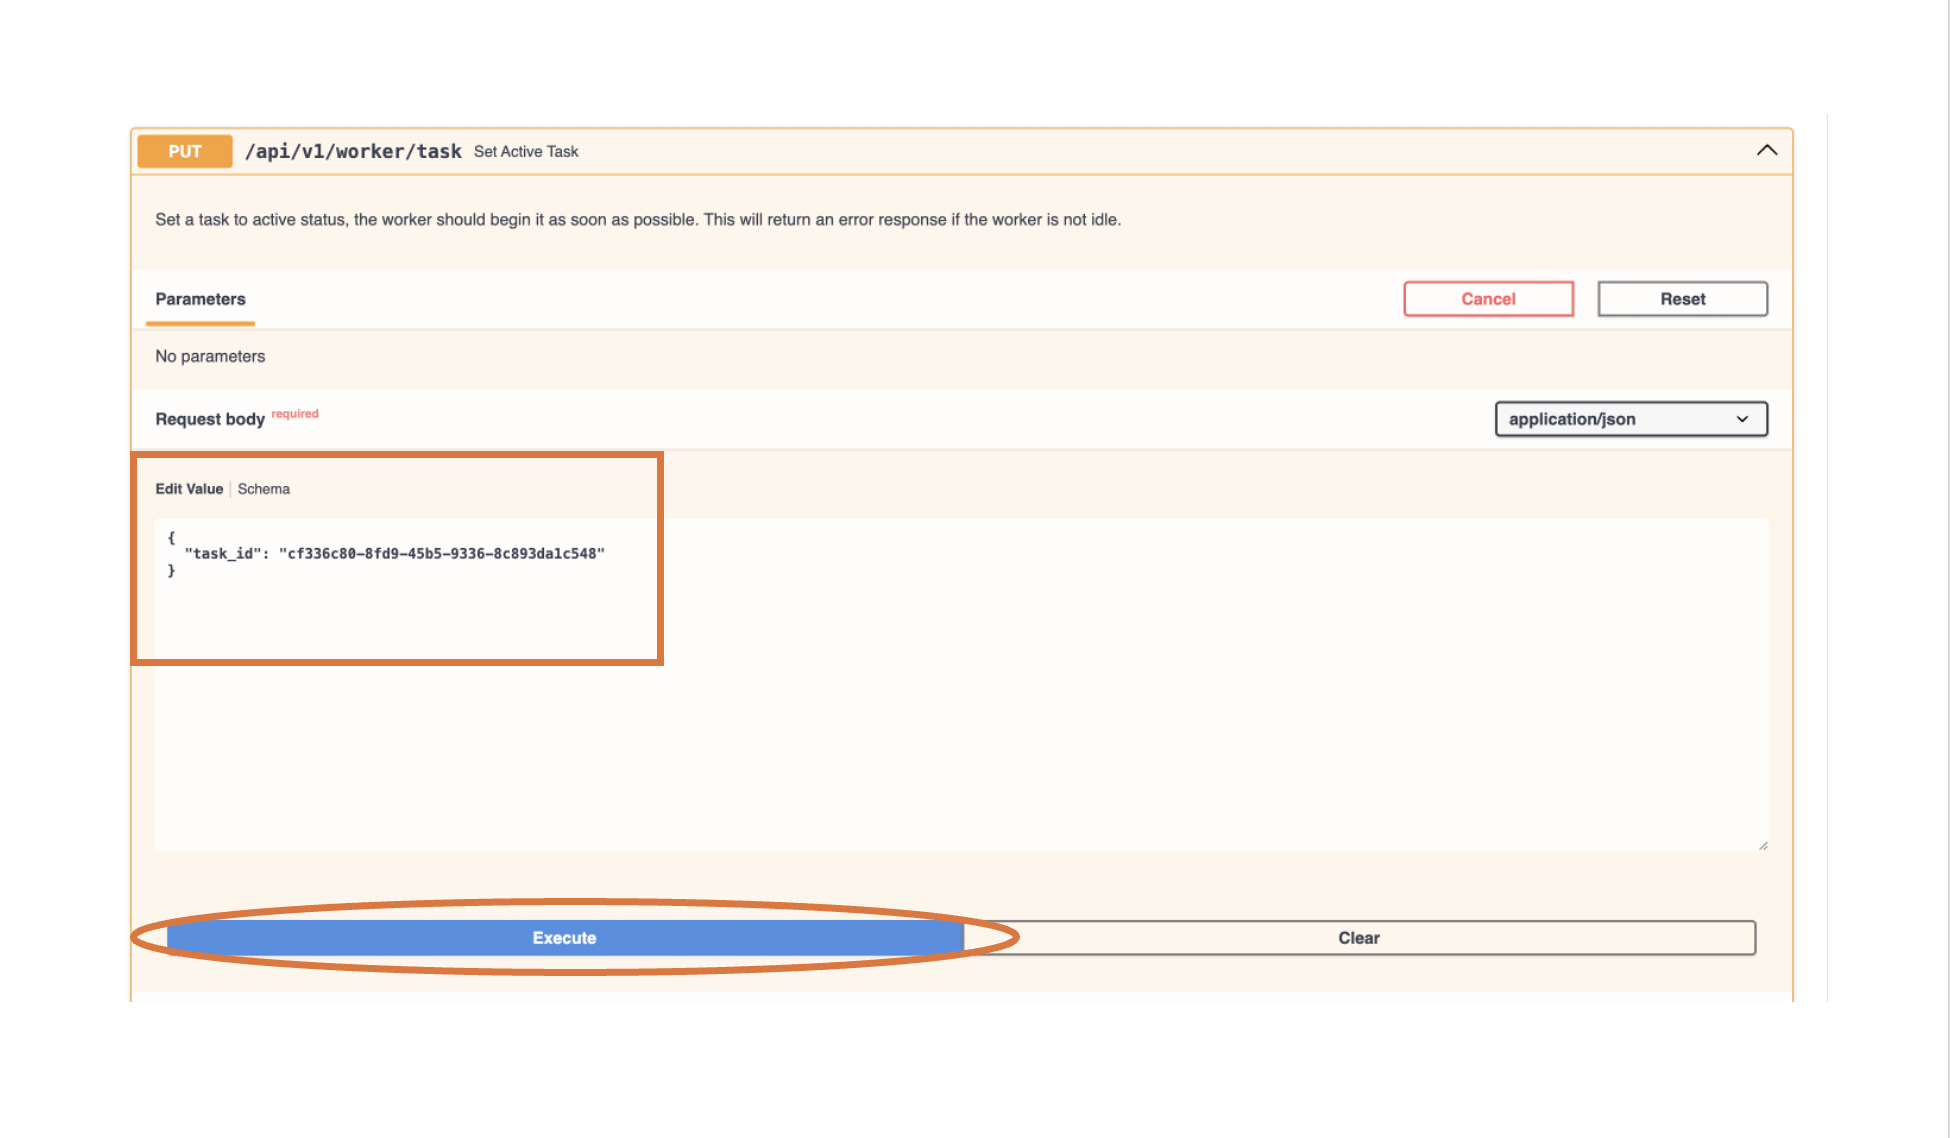
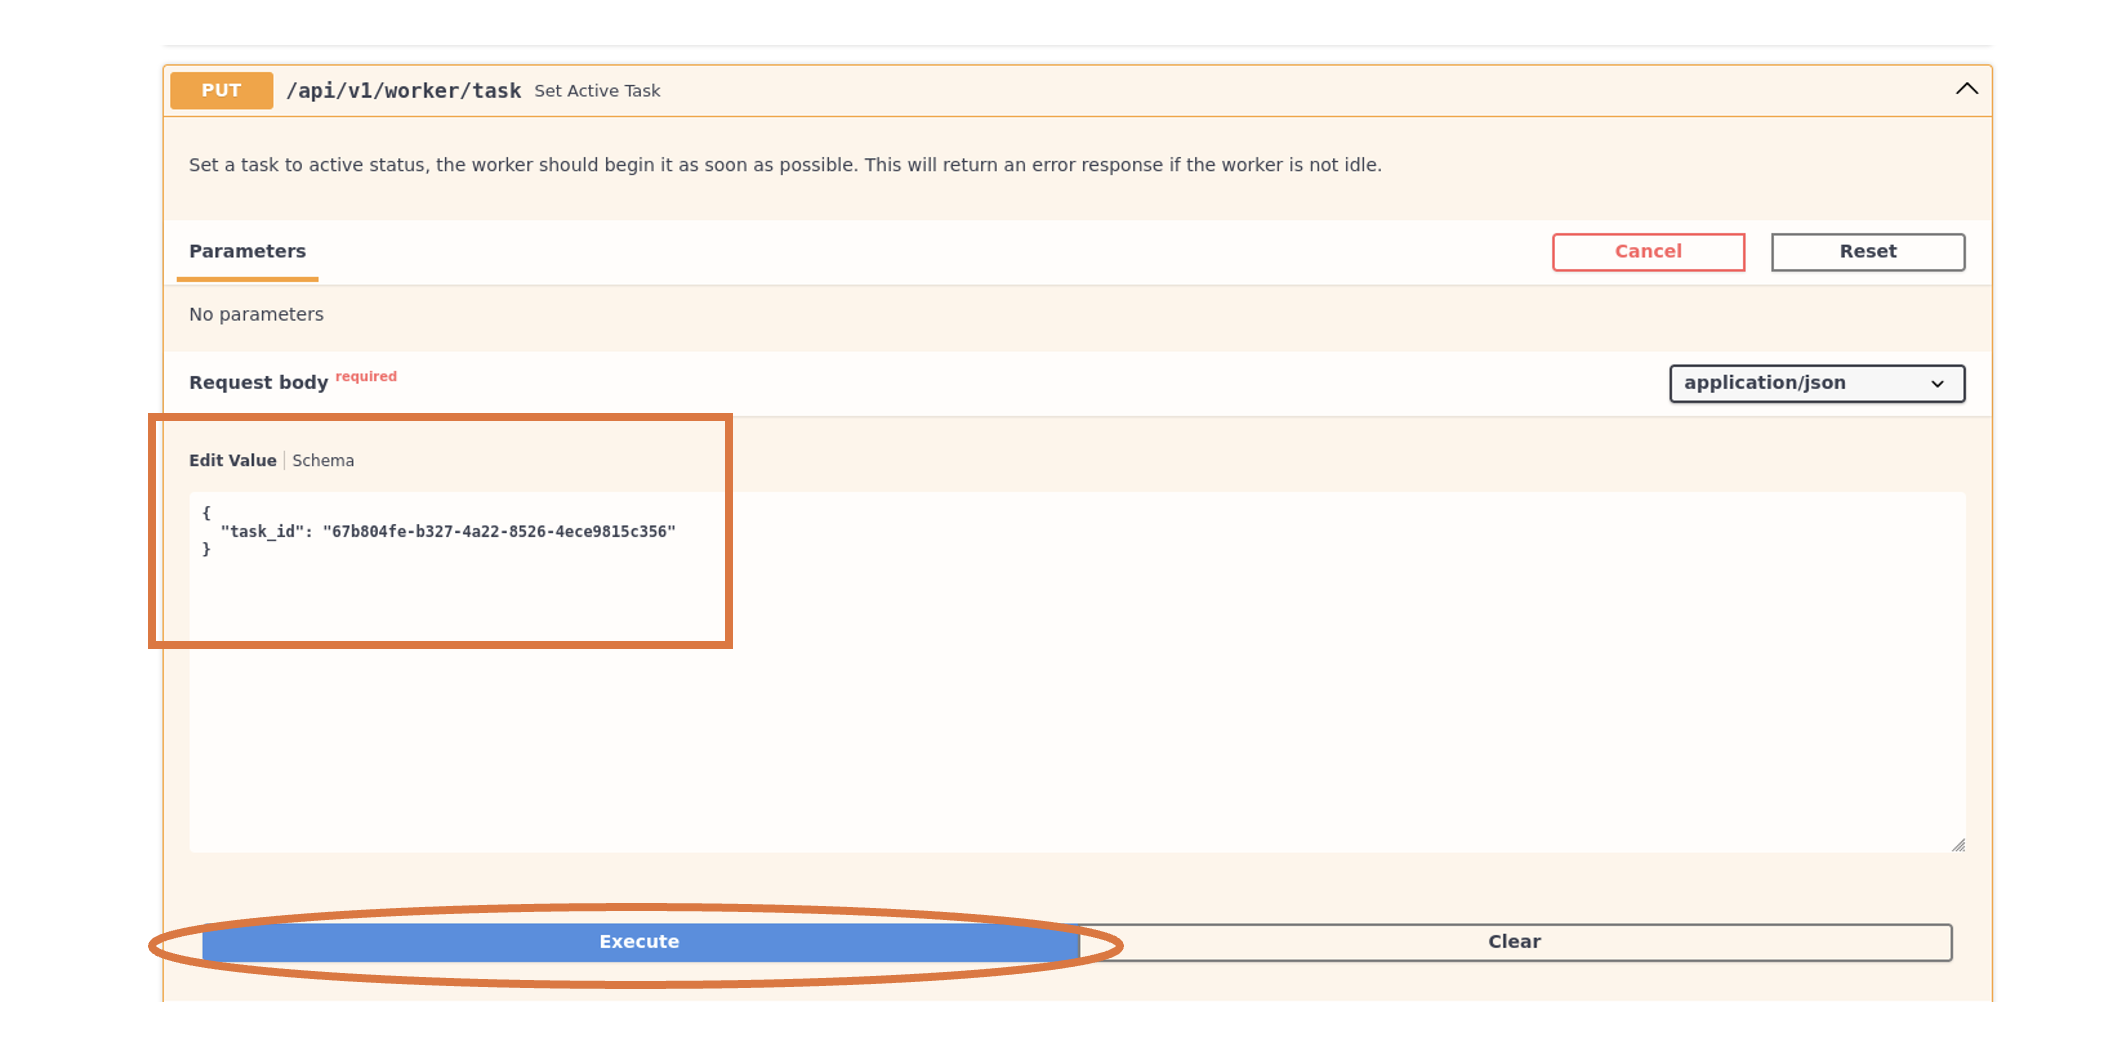
docs: updates to tutorial pages after testing

diff --git a/docs/tutorials/5. config-add-rabbitmq-and-run-plan-cli.md b/docs/tutorials/5. config-add-rabbitmq-and-run-plan-cli.md
@@ -10,18 +10,7 @@ Run a Sleep plan
 ```
 blueapi -c config.yaml controller run -i cm12345-1 sleep '{"time": 5}'
 ```
-You should get the following error in the terminal logs:
-
-```
-WARNING stomp.py could not connect to host localhost, port 61613: [Errno 111] Connection refused
-```
-To run a plan in blocking mode, we need the message bus to be started. Blueapi can publish updates to this message bus asynchronously and then the CLI can view these updates and display them to the user. Run the following command in a new terminal and restart the worker.
-
-```sh
-echo "[rabbitmq_stomp].">enabled_plugins && podman run -it --rm --name rabbitmq-docs -v $(readlink -f enabled_plugins):/etc/rabbitmq/enabled_plugins:z -p 5672:5672 -p 61613:61613 rabbitmq:latest
-``` 
-
-Now, try running the sleep plan. You may get this error in the terminal logs: 
+You may get this error in the terminal logs: 
 ```
 Error: Stomp configuration required to run plans is missing or disabled
 ```
@@ -52,11 +41,27 @@ stomp:
   url: tcp://localhost:61613/
 ```
 
-Restart the worker to now use the updated `config.yaml` file. 
+If you had difficulties creating your `config.yaml` file, you can use the pre-made one in the `docs/resources` folder. 
 
-Run the Sleep plan again. You should 'Plan succeeded' in the terminal logs.
+Try running the Sleep plan again. You may come across this error:
 
-Other plans you can run: 
+```
+WARNING stomp.py could not connect to host localhost, port 61613: [Errno 111] Connection refused
+```
+To run a plan in blocking mode, we need the message bus to be started. Blueapi can publish updates to this message bus asynchronously and then the CLI can view these updates and display them to the user. Run the following command in a new terminal window and restart the blueapi server.
+
+```sh
+echo "[rabbitmq_stomp].">enabled_plugins && podman run -it --rm --name rabbitmq-docs -v $(readlink -f enabled_plugins):/etc/rabbitmq/enabled_plugins:z -p 5672:5672 -p 61613:61613 rabbitmq:latest
+``` 
+
+Now, try running the Sleep plan. You should 'Plan succeeded' in the terminal logs of the terminal window where the blueapi server is running.
+
+Below are some other plans you can try. In the terminal window where the Sleep plan was run, you should see 
+```
+INFO root Stomp client subscribing to name='public.worker.event'
+```
+
+Press CTLR+C to disconnect the Stomp client then run a new plan.
 
 Run a Scan
 ```
@@ -66,8 +71,8 @@ blueapi -c config.yaml controller run count '{"detectors": ["det"], "num":5}' -i
 Run a Step Scan
 ```
 blueapi -c config.yaml controller run step_scan '{"detectors":["det"], "params":[["stage.x",[0,5,1]]]}' -i cm1234-5
-
 ```
+
 :::{note}
 The CLI uses REST requests talk to the worker via a message broker on `tcp://localhost:61613`,
 but you can customize this via the `config.yaml` file.

diff --git a/docs/tutorials/2. quickstart.md b/docs/tutorials/2. quickstart.md
@@ -1,7 +1,14 @@
 # 2. Quickstart guide
 
-Blueapi acts as a worker that can run bluesky plans against devices for a specific laboratory setup. It can control devices to collect data and export events to tell downstream services about the data it has collected. To run the following, ensure you have cloned the blueapi repository locally. Then, `cd` into blueapi and run the following commands.
+Blueapi acts as a worker that can run Bluesky plans against devices for a specific laboratory setup. It can control devices to collect data and export events to tell downstream services about the data it has collected.
 
+You should be in the blueapi directory that you have cloned. From here, if you open VSCode, you will probably be prompted to 'Reopen in Container' which you can do and then run the following commands to start the worker. 
+
+If you not, you can still run the following from the venv created in page 1 but you may need to run the command below to have the dependencies required for this tutorial.
+
+```
+pip install .[demo]
+```
 
 ## Start Worker
 
@@ -13,12 +20,19 @@ This will use all the defaults in `src/blueapi/config.py`
 
 ## Basic Introspection
 
-Blueapi comes with a minimal CLI client for basic control/debugging. We can use this to see which plans and devices are available. In a new terminal window, run the following commands. Note, you may need to reactive the venv. 
+Blueapi comes with a minimal CLI client for basic control/debugging. We can use this to see which plans and devices are available. In a new terminal window, run the following commands. 
+
+If working in a venv, you may need to reactivate it. To do this, assuming you are still in the blueapi repo in your terminal, use:
+```
+source .venv/bin/activate
+```
+
+Now, run the following to see what plans and devices are available:
+
 ``` 
 blueapi controller plans
 blueapi controller devices
 ```
-This should not return anything as we have not initialised any plans or devices yet.
 
 We should now have an empty context.
 

diff --git a/docs/tutorials/4. config-add-plans.md b/docs/tutorials/4. config-add-plans.md
@@ -1,7 +1,7 @@
 # Config add plans
-As well as adding devices to the config.yaml, you can add plans. Under the code you already have, add the following:
+As well as adding devices to the `config.yaml`, you can add plans. Under the code you already have, add the following:
 
-```
+``` yaml
     - kind: planFunctions
       module: dodal.plans
     - kind: planFunctions
@@ -9,17 +9,7 @@ As well as adding devices to the config.yaml, you can add plans. Under the code 
 ```
 These plans that will be used in this tutorial can be found in the [dodal repository](https://github.com/DiamondLightSource/dodal/tree/b4b38f1e0cf480faeb29d67695440c45a148f169). Specifically, in `dodal/src/dodal/plans/wrapped.py` and `dodal/src/dodal/plan_stubs/wrapped.py`.
 
+Save the changes you've made to the `config.yaml` file. Navigate back to the terminal where the blueapi worker is running. Restart the server to use this updated `config.yaml` file.
+
 Now run 
-```blueapi controller plans``` in the same terminal as before and you should see a list of plans that can be run. For example, `count`, `list_grid_scan`, `num_scan` etc.
-
-
-Now having added plans and devices to the `config.yaml` file, we need to restart the worker to use this file. Close the current worker (ctrl+C) and run this command:
-
-```
-blueapi --config path/to/file serve
-```
-If you have created the `config.yaml` file in the `resources` folder as suggested on the previous page, the command will be:
-
-```
-blueapi --config docs/resources/config.yaml serve
-```
+```blueapi controller plans``` in the same terminal window used previously for this command and you should see a list of plans that can be run. For example, `count`, `list_grid_scan`, `num_scan` etc.

diff --git a/docs/tutorials/6. run-plan-docs.md b/docs/tutorials/6. run-plan-docs.md
@@ -38,13 +38,13 @@ Scroll back up to the 'Submit Task' endpoint (/api/v1/tasks). The default settin
 
 ![Submit task default](submit_task.png)
 
-Press the 'Try it out' button and replace the placeholder 'x' in the request body with the device you took note of in step 1 ('det' in this example) and 'cm12345-1' with the correct instrument session details ('cm44194-X' in this example for p46 where X is the current run number) which can be found on the #sscc-training-room Slack channel. 
+Press the 'Try it out' button and replace the placeholder 'x' in the request body with the device you took note of in step 1 ('det' in this example). The instrument session can be left as 'cm12345-1' for the purposes of this tutorial.
 
-![Submit task with details](instrument_session_details.png)
+![Submit task with details](add_detector.png)
 
 Press 'Execute' and you should receive a '201' response that contains a 'task_id'. At the end of the response body box, press the clipboard symbol to copy this 'task_id'. 
 
-![Execute task](run_plan_execute.png)
+![Execute task](submit_task.png)
 
 3. Set created task in the previous step to be the active task 
 

diff --git a/docs/how-to/local-auth.md b/docs/how-to/local-auth.md
@@ -1,6 +1,6 @@
 # Run BlueAPI and connect to services locally
 
-For development purposes, it can be useful to run BlueAPI and adjacent services (Numtracker, Tiled, OPA etc.) locally. To do this, a containerised version of the stack should be run. This includes launching an instance of NumTracker, RabbitMQ, Keycloal, Tiled, OPA and a number of IOCs, in detached mode. Running BlueAPI and connected services locally as opposed to connecting to the cluster can be useful for learning more about the stack, running system tests, checking if changes during development propagate as expected etc. 
+For development purposes, it can be useful to run BlueAPI and adjacent services (Numtracker, Tiled, OPA etc.) locally. To do this, a containerised version of the stack should be run. This includes launching an instance of NumTracker, RabbitMQ, Keycloak, Tiled, OPA and a number of IOCs, in detached mode. Running BlueAPI and connected services locally as opposed to connecting to the cluster can be useful for learning more about the stack, running system tests, checking if changes during development propagate as expected etc. 
 
 To run the stack:
 

diff --git a/docs/tutorials/3. config-add-devices.md b/docs/tutorials/3. config-add-devices.md
@@ -17,5 +17,12 @@ env:
 
 The `env` section of the `config.yaml` file lets you create and set environment variables. The `demo` points to optional dependencies in the [pyproject.toml file](/pyproject.toml). The module above points to the devices you will use for this tutorial which can be found [here](../../src/blueapi/tutorial/devices.py).
 
+Save the file and restart the worker to use this new `config.yaml` file you have created. To do this, navigate back to the terminal window where the worker is running, CTRL+C to close it then run the following command: 
+``` 
+blueapi --config docs/resources/config.yaml serve 
+```
+
+The above command asuumes you created the `config.yaml` file in `docs/resources`. Else, replace `docs/resources/config.yaml` with whichever file path your `config.yaml` has.
+
 Now run 
-```blueapi controller devices``` in the same terminal as before and you should see `det` and `stage`.
+```blueapi controller devices``` in the same terminal window as you did when previously running this command and you should see `det` and `stage`.

diff --git a/docs/how-to/run-with-dev.md b/docs/how-to/run-with-dev.md
@@ -10,7 +10,7 @@ Ensure you are inside your virtual environment:
 source venv/bin/activate
 ```
 
-You will need to follow the instructions for setting up RabbitMQ as in [instructions for setting up RabbitMQ](../tutorials/run-bus.md).
+You will need to follow the instructions for setting up RabbitMQ as in [instructions for setting up RabbitMQ](../tutorials/5.%20config-add-rabbitmq-and-run-plan-cli.md).
 
 The worker will be available from the command line (`blueapi serve`), but can be started from vscode with additional
 debugging capabilities.

diff --git a/docs/how-to/configure-app.md b/docs/how-to/configure-app.md
@@ -16,18 +16,3 @@ avoid it having to be passed to every time the cli is used:
 export BLUEAPI_CONFIG=/path/to/file.yaml
 blueapi <subcommand>
 ```
-## Example configuration
-
-Create a YAML file for configuring blueapi:
-
-```{literalinclude} ../../tests/unit_tests/valid_example_config/stomp.yaml
-:language: yaml
-```
-
-## Run the Server
-
-```
-blueapi --config /path/to/file.yaml serve
-```
-
-The server should print a connection message to the console. If there is an error, it will print an error message instead.

diff --git a/docs/how-to/run-container.md b/docs/how-to/run-container.md
@@ -20,8 +20,9 @@ podman run ghcr.io/diamondlightsource/blueapi:latest
 
 To get a released version, use a numbered release instead of `latest`.
 
-## Starting the RabbitMQ
-The worker requires a running instance of RabbitMQ. The easiest way to start it is
+## Starting the message bus
+
+The worker requires a running instance of the message bus, which in this case is RabbitMQ. The easiest way to start it is
  to `compose` the services in `tests/system_tests/compose.yaml`
 
 ```sh

diff --git a/docs/tutorials/1. installation.md b/docs/tutorials/1. installation.md
@@ -8,6 +8,10 @@ typing into a terminal:
 python3 --version
 ```
 
+## Clone the blueapi repository locally 
+
+Clone the blueapi repository to your local scratch directory and `cd` into it.
+
 ## Create a virtual environment
 
 It is recommended that you install into a “virtual environment” so this
